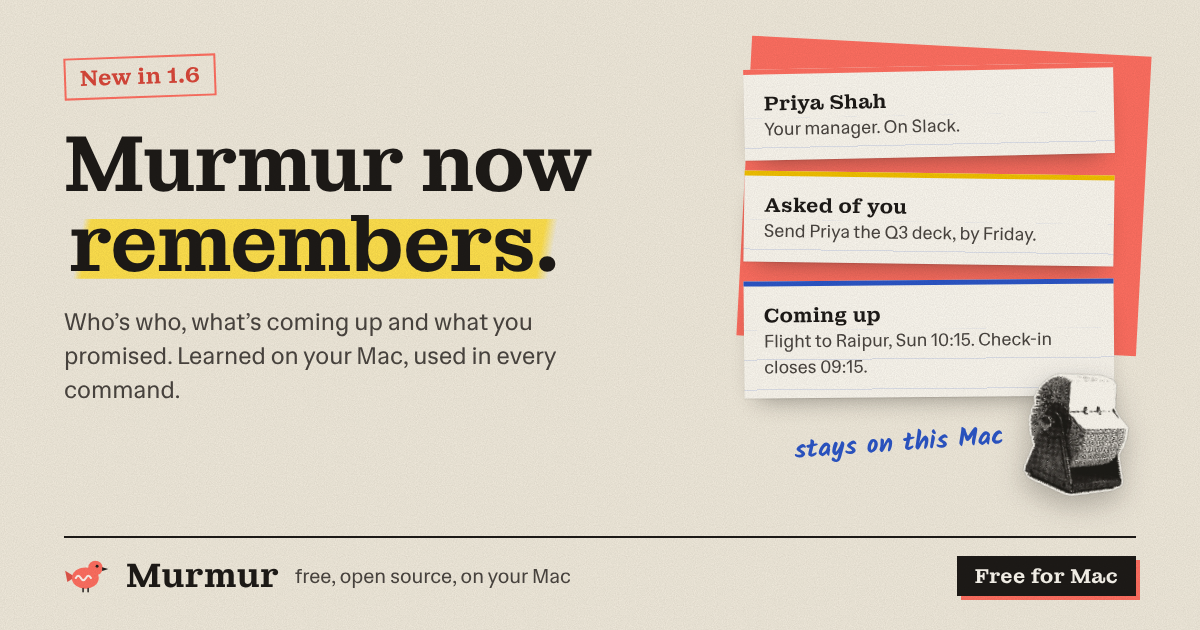
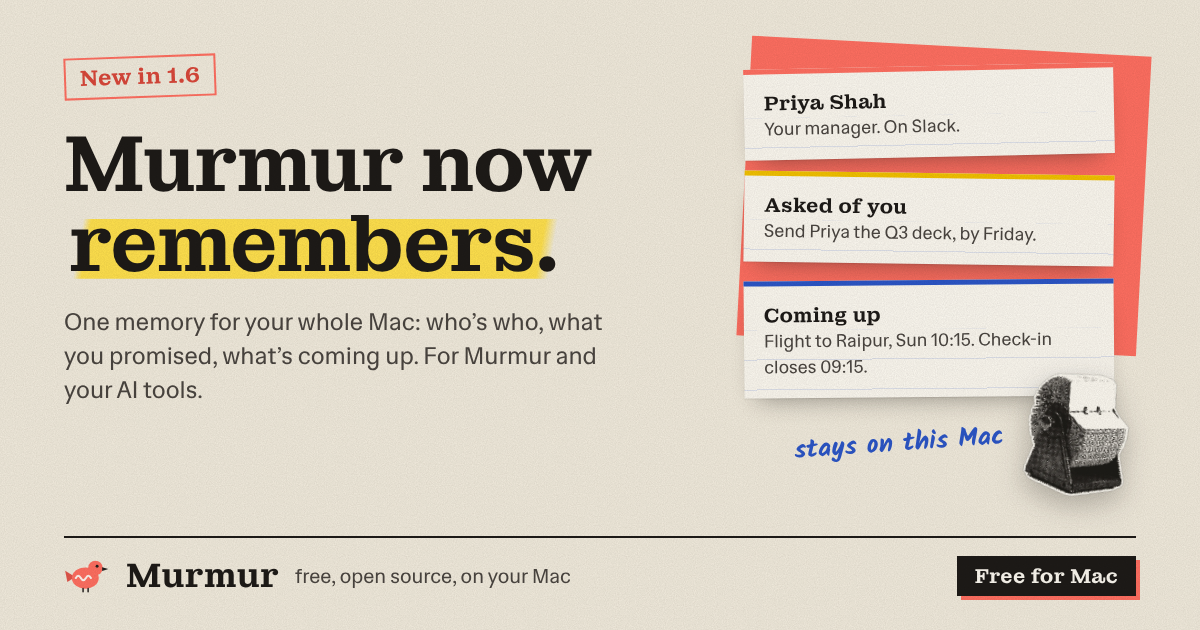
Memory as one memory for the whole Mac, for Murmur and your AI tools
The section now explains itself in order: how the memory is made (learns, keeps what's yours, stays current,
everything can use it), what you can just say with it (four examples with what Murmur does), your AI tools using
it over MCP (what they can ask, the one command, read-only, and a scene of Claude Code asking Murmur), and why
it's safe to have. Hero, what's new, a new question, the link preview and its description say the same.

Claude-Session: https://claude.ai/code/session_0112tp5ZwNLWvX6zhdq2sbnp

Changed region(s): [[0.0308, 0.4825, 0.4933, 0.6333]]

diff --git a/src/content.js b/src/content.js
@@ -17,21 +17,48 @@ export const modes = [
 ];
 
 export const whatsNew = [
-  ["Murmur remembers", "Who’s who, what’s coming up and what you promised, learned from your Contacts, Calendar, Reminders, Notes and Mail, and from what you work on. Every command uses it, and it all stays on your Mac."],
+  ["A memory for your whole Mac", "Murmur learns who’s who, what’s coming up and what you promised, from your apps and the windows you work in. Every command uses it, your AI tools can too, and it stays on your Mac."],
   ["Promises and plans", "“Can you send the deck by Friday?” in Slack, a flight you booked: they become open loops with a due date, and close themselves when Murmur sees they’re done."],
   ["Morning brief, evening wrap-up", "At 9:00, what’s due today and where you left off. At 18:30, what you did and what’s still open."],
+  ["Your AI tools remember too", "Claude Code, Claude Desktop, Cursor and other AI tools on your Mac can ask Murmur’s memory what you’re working on, read-only, with one command."],
   ["Your apps, connected", "Sign in to Linear, Notion, or Jira and Confluence on their own page. Then ask about your issues and docs, or update them, by voice."],
   ["A reader built in", "Memory runs on a model Murmur downloads and runs itself, with no Ollama to set up. It reads while you’re away, or a little at a time when the Mac is plugged in and quiet."],
 ];
 
-// The memory section: where it learns from, and what it does with it.
-export const memorySources = ["Contacts", "Calendar", "Reminders", "Notes", "Mail", "What you work on", "Linear", "Notion", "Jira"];
+// The memory section: one memory for the whole Mac, how it's made, what it answers, and the AI tools that use it.
+export const memorySources = ["Contacts", "Calendar", "Reminders", "Notes", "Mail", "The windows you work in", "Linear", "Notion", "Jira and Confluence"];
 
-export const memoryPowers = [
-  ["Who’s who", "“Text Priya I’m running late” knows which Priya, and where you talk to her. “Who is Arjun?” gets his role, his team and when you last met."],
-  ["What you owe, and what’s owed", "Requests in your chats and email, the things you said you’d do, the bookings in your inbox. Each one is an open loop until it’s done, with a nudge before it’s due."],
-  ["What you did", "A few lines for every hour you work, rolled up into days and months. “What did I do on Tuesday?” has an answer."],
-  ["What it forgets", "Facts fade unless they come up again, and newer ones replace older ones. Feeds, adverts and strangers’ posts are only seen, never kept as yours. Every line has an × to forget it."],
+// How the memory is made: a sequence, so it's numbered on the page.
+export const memorySteps = [
+  ["It learns", "From the apps you turn on, and, if you let it, from the windows you work in: the Slack thread, the email, the doc, the booking page. Nothing to type in."],
+  ["It keeps what’s yours", "Your conversations and your work become memories, promises and plans. Feeds, adverts and strangers’ posts are only seen, never kept as facts about you."],
+  ["It stays current", "A new fact replaces the old one (a new job, a new number). What never comes up again fades. A promise closes itself when Murmur sees it done."],
+  ["Everything can use it", "Every Murmur command, and any AI tool on your Mac that can connect to it: Claude Code, Claude Desktop, Cursor and others."],
+];
+
+// What you say, and what memory lets Murmur do with it. All made-up people.
+export const memoryExamples = [
+  ["Message Priya I’m running late.", "Goes to Priya Shah on Slack, because that’s where you two talk. Not to the other Priya in your Contacts."],
+  ["When’s my flight?", "Sunday at 10:15 from Bengaluru, Terminal 1. Check-in closes at 09:15. It read that from your booking, and reminds you the evening before."],
+  ["What did I promise this week?", "The Q3 deck for Priya by Friday, Arjun’s pull request, and a call back to the accountant. Each one from where you said it."],
+  ["What did I do yesterday?", "Three hours on the payments release in Xcode, a call with Arjun about the launch, and the new pricing page in Figma."],
+];
+
+// What other AI tools can ask (MemoryServer's tools, in plain words).
+export const memoryTools = [
+  ["Who and what", "people, their work and how to reach them, projects, facts and preferences, each with where it came from"],
+  ["Promises", "what you said you’d do and what you’re waiting on, soonest due first"],
+  ["What you did", "a summary of any hour, day, month or year"],
+  ["Where your time went", "apps and sites, between any two days"],
+  ["What you saw", "pages, documents, chats and email you had open"],
+  ["What’s coming up", "events, plans and things to do"],
+];
+
+export const memoryTrust = [
+  ["On your Mac", "The memory is one file on your Mac. Murmur’s own model reads and writes it. No account, no server."],
+  ["Never read", "Password managers, private windows and password fields, and any app or site you add to Never read."],
+  ["No pictures kept", "When a window has little text, Murmur looks at a small picture of it, then deletes the picture."],
+  ["Yours to edit", "Every line on the Memory page has an × to forget it. Forget a person, everything from your screen, or all of it."],
 ];
 
 export const dictation = [
@@ -109,6 +136,7 @@ export const questions = (macSize, windowsSize) => [
   ["Does Murmur listen all the time?", "No. Only while you hold the key, or after you double-tap it for hands-free, until you tap again. Esc cancels."],
   ["Does Murmur record my screen?", "No video, ever, and only if you turn on Remember what I work on. Then Murmur reads the text of the window you’re working in when it changes, and takes a small picture only when a window has little text. Pictures are deleted once they’re read. It never reads password managers, private windows or password fields, and you can add any app or site to Never read."],
   ["What does Murmur remember, and can I make it forget?", "People, organisations, projects, what’s coming up, and what you promised or are owed, each with where it came from. Things fade unless they come up again. Forget one line, a person, everything from your screen, or all of it, from the Memory page. Memory is on the Mac for now."],
+  ["Can my other AI tools use Murmur’s memory?", "Yes, any that connect to tools over MCP: Claude Code, Claude Desktop, Cursor and others. On the Memory page, Use your memory in Claude Code copies the one command that adds it. They can read it, never change it, and what they read goes to the model they use."],
   ["Does it change what I say?", "Not unless you ask it to. By default your words go in exactly as heard; Murmur only fits the spacing, the first letter and the final full stop to the sentence around your cursor. AI cleanup, which takes out the ums and applies your corrections, is off until you turn it on. If the model changes more than that, your words go in as heard."],
   ["How does it tell a command from dictation?", "Typing is the default. Clear commands like “open Slack” or “PDF kholo” run at once. To decide yourself, hold ⇧ with fn to only type, or ⌃ with fn to make it a command."],
   ["Can I stop a command halfway?", "Yes. Press Esc, or choose Stop Command in the menu bar, and it stops after the step it’s on. If it had a task list, say “continue” later to pick it up."],

diff --git a/src/App.jsx b/src/App.jsx
@@ -1,13 +1,13 @@
 import { useEffect, useRef, useState } from "react";
 import Flock from "./Flock";
 import { Bird, Pill } from "./Bird";
-import { CleanupScene, DictateScene, MemoryScene, ReadScene, SearchScene, Shortcuts, TaskScene } from "./Scenes";
+import { AgentMemoryScene, CleanupScene, DictateScene, MemoryScene, ReadScene, SearchScene, Shortcuts, TaskScene } from "./Scenes";
 import { Cut, Hi, Mark, Note } from "./Collage";
 import { downloadUrl, onWindows, releasesUrl, useRelease, useWindowsRelease } from "./release";
 import { recentReleases } from "./releases";
 import { useScrollMotion } from "./motion";
 import {
-  chatApps, dictation, heroPhrases, jobs, learns, links, memoryPowers, memorySources, models, modes, parity, questions,
+  chatApps, dictation, heroPhrases, jobs, learns, links, memoryExamples, memorySources, memorySteps, memoryTools, memoryTrust, models, modes, parity, questions,
   spoken, steps, whatsNew,
 } from "./content";
 
@@ -177,37 +177,65 @@ function MobileMenu() {
   );
 }
 
-const memoryAsks = ["Who is Arjun?", "What did I promise this week?", "When’s my flight?", "What did I work on yesterday?"];
-
-// Memory, the 1.6 headline: what goes in, what it keeps, and what you can ask it.
+// Memory, the 1.6 headline: one memory for the whole Mac. How it's made, what it answers, the AI tools that use it,
+// and why it's safe to have.
 function Memory() {
   return (
     <section className="block memory" id="memory" aria-labelledby="memory-title">
-      <Head id="memory-title" title="Murmur now" hi="remembers" lede="Who’s who, what’s coming up and what you said you’d do. Murmur learns it from your apps and from what you work on, keeps what’s about you, and uses it in every command. On your Mac, nowhere else." note="new in 1.6" />
+      <Head id="memory-title" title="One memory for" hi="your whole Mac"
+        lede="Murmur now keeps a private memory of your working life: who people are, what you’re working on, what you promised and what’s coming up. It builds it from your apps and the windows you work in, uses it in every command, and lets your other AI tools use it too."
+        note="new in 1.6" />
+
+      <ol className="flow memory-steps">
+        {memorySteps.map(([title, text], i) => (
+          <li key={title} className="flow-step scrap" data-reveal data-delay={i * 110}>
+            <span className="flow-n" aria-hidden="true">{i + 1}</span>
+            <h3>{title}</h3>
+            <p>{text}</p>
+            {i === 0 && <ul className="memory-chips">{memorySources.map((s) => <li key={s}>{s}</li>)}</ul>}
+            {i < memorySteps.length - 1 && <Mark kind="arrow" className="flow-arrow" />}
+          </li>
+        ))}
+      </ol>
+
       <div className="memory-grid">
         <div className="memory-stage" data-reveal>
           <div className="stage-paper taped"><MemoryScene /></div>
           <Cut name="cards" className="memory-cut" depth="0.4" />
-          <Note className="memory-note">stays on this Mac</Note>
+          <Note className="memory-note">what you worked on, kept as cards</Note>
         </div>
-        <div className="memory-side">
-          <div className="memory-sources" data-reveal>
-            <p className="memory-from">It learns from</p>
-            <ul>{memorySources.map((s) => <li key={s}>{s}</li>)}</ul>
-          </div>
-          <ul className="memory-powers">
-            {memoryPowers.map(([title, text], i) => (
-              <li key={title} className="card" data-reveal data-delay={i * 80}><h3>{title}</h3><p>{text}</p></li>
+        <div className="memory-examples">
+          <h3 className="memory-sub">So you can just say</h3>
+          <dl>
+            {memoryExamples.map(([said, does], i) => (
+              <div key={said} data-reveal data-delay={i * 80}><dt><q className="voice">{said}</q></dt><dd>{does}</dd></div>
             ))}
-          </ul>
+          </dl>
         </div>
       </div>
-      <div className="memory-ask scrap" data-reveal>
-        <p className="memory-ask-head">Ask it anything about your own world</p>
-        <ul>{memoryAsks.map((q) => <li key={q}><q className="voice">{q}</q></li>)}</ul>
-        <p className="note">Claude Code, Claude Desktop and Cursor can ask Murmur what it knows too, read-only, on this Mac.</p>
-        <Mark kind="underline" className="memory-ask-mark" />
+
+      <div className="memory-agents">
+        <div className="memory-agents-copy" data-reveal>
+          <h3 className="memory-sub">Your AI tools get it too</h3>
+          <p>Claude Code, Claude Desktop, Cursor and any other AI tool on your Mac that connects to tools over MCP can ask Murmur’s memory before they answer. So your coding agent knows what you shipped this week, who owns the payments code, and what you promised to fix.</p>
+          <dl className="memory-tools">
+            {memoryTools.map(([title, text]) => <div key={title}><dt>{title}</dt><dd>{text}</dd></div>)}
+          </dl>
+          <p className="memory-how">Add it with one command, copied from <b>Memory → Use your memory in Claude Code</b>:</p>
+          <code className="memory-command">claude mcp add --scope user murmur -- …/murmur-memory mcp</code>
+          <p className="note">Read-only: they can ask, never change. What a tool reads goes to the model that tool uses.</p>
+        </div>
+        <div className="memory-agents-scene" data-reveal data-delay="100">
+          <div className="stage-paper taped"><AgentMemoryScene /></div>
+          <Note className="memory-agents-note">Claude Code, asking Murmur</Note>
+        </div>
       </div>
+
+      <dl className="details memory-trust">
+        {memoryTrust.map(([title, text], i) => (
+          <div key={title} className="sticky" data-reveal data-delay={i * 80}><dt>{title}</dt><dd>{text}</dd></div>
+        ))}
+      </dl>
     </section>
   );
 }
@@ -264,7 +292,7 @@ export default function App() {
             <div className="hero-copy">
               <a className="stamp" href="#memory">New in {latest[0]}: Murmur remembers</a>
               <h1>Hold a key and <Hi>say it.</Hi></h1>
-              <p className="hero-lede">Murmur types what you say in any app, answers questions about your screen, finds your files and carries out whole jobs across your apps and the web. Now it remembers who’s who and what you promised, too. In English, Hinglish or 25 more languages. Free, and its models run on your own computer.</p>
+              <p className="hero-lede">Murmur types what you say in any app, answers questions about your screen, finds your files and carries out whole jobs across your apps and the web. Now it remembers your work, too: who’s who, what you promised and what’s coming up, for Murmur and for your other AI tools. In English, Hinglish or 25 more languages. Free, and its models run on your own computer.</p>
               <div className="hero-actions">{isWindows ? <>{win}{mac}</> : <>{mac}{win}</>}</div>
               <p className="hero-meta">Free and open source. Mac with Apple silicon on macOS 14 or later, or Windows 10 and 11.</p>
             </div>

diff --git a/src/styles.css b/src/styles.css
@@ -666,25 +666,44 @@ kbd + kbd { margin-left: 3px; }
   .footer-say p { max-width: none; }
 }
 
-/* Memory (1.6): what you worked on in, index cards out, and the next command using them. */
-.memory-grid { display: grid; grid-template-columns: 1.15fr 1fr; gap: clamp(32px, 5vw, 72px); align-items: start; }
+/* Memory (1.6): how it's made (numbered), the scene and what you can say, the AI tools that use it, and trust. */
+.memory-steps { margin-bottom: clamp(70px, 8vw, 110px); }
+.memory-chips { display: flex; flex-wrap: wrap; gap: 6px; margin-top: 14px; }
+.memory-chips li { padding: 1px 9px; border: 1.5px solid var(--ink); border-radius: 999px; background: #fff; font: 600 12.5px/1.6 var(--slab); }
+.memory-chips li:nth-child(6) { background: var(--yellow); }
+.memory-grid { display: grid; grid-template-columns: 1.1fr 1fr; gap: clamp(32px, 5vw, 76px); align-items: center; }
 .memory-stage { position: relative; --rest-tilt: -1deg; }
-.memory-cut { right: -46px; bottom: -120px; width: 180px; transform: rotate(-7deg); z-index: 2; }
+.memory-cut { right: -46px; bottom: -120px; width: 170px; transform: rotate(-7deg); z-index: 2; }
 .memory-note { left: 6px; bottom: -48px; }
-.memory-from { color: var(--ink-3); font-size: 15px; }
-.memory-sources ul { display: flex; flex-wrap: wrap; gap: 8px; margin-top: 10px; }
-.memory-sources li { padding: 3px 11px; border: 1.5px solid var(--ink); border-radius: 999px; background: var(--sheet); font: 600 14.5px/1.5 var(--slab); }
-.memory-sources li:nth-child(6) { background: var(--yellow); }
-.memory-powers { display: grid; grid-template-columns: 1fr 1fr; gap: 16px; margin-top: 26px; }
-.memory-powers .card { padding: 20px 20px 22px; }
-.memory-powers .card:nth-child(odd) { --rest-tilt: -0.6deg; }
-.memory-powers .card:nth-child(even) { --rest-tilt: 0.5deg; }
-.memory-powers p { margin-top: 8px; color: var(--ink-2); font-size: 15.5px; line-height: 1.55; }
-.memory-ask { margin-top: clamp(70px, 8vw, 110px); padding: 30px 32px 38px; --rest-tilt: 0.4deg; }
-.memory-ask-head { font: 600 22px/1.3 var(--slab); }
-.memory-ask ul { display: flex; flex-wrap: wrap; gap: 14px 34px; margin-top: 16px; }
-.memory-ask .voice { font-size: clamp(22px, 2.4vw, 30px); }
-.memory-ask-mark { left: 32px; top: 58px; width: 280px; height: 14px; }
+.memory-sub { margin-bottom: 18px; font: 600 clamp(26px, 2.6vw, 36px)/1.15 var(--slab); }
+.memory-examples dl { display: grid; gap: 22px; }
+.memory-examples dt .voice { font-size: clamp(21px, 2vw, 26px); }
+.memory-examples dd { margin-top: 4px; color: var(--ink-2); font-size: 16px; line-height: 1.55; }
+.memory-agents { display: grid; grid-template-columns: 1fr 1.05fr; gap: clamp(32px, 5vw, 76px); align-items: center; margin-top: clamp(110px, 12vw, 160px); }
+.memory-agents-copy > p:first-of-type { max-width: 34em; color: var(--ink-2); }
+.memory-tools { display: grid; grid-template-columns: 1fr 1fr; gap: 12px 26px; margin-top: 22px; }
+.memory-tools dt { font: 600 16px/1.3 var(--slab); }
+.memory-tools dd { color: var(--ink-3); font-size: 14.5px; line-height: 1.45; }
+.memory-how { margin-top: 24px; font-size: 16px; }
+.memory-command { display: block; margin-top: 8px; padding: 10px 14px; overflow-x: auto; border: 1.5px solid var(--ink); border-radius: 8px; background: var(--ink); color: var(--sheet); font: 14px/1.5 ui-monospace, "SF Mono", Menlo, monospace; white-space: nowrap; }
+.memory-agents-scene { position: relative; --rest-tilt: 1deg; }
+.memory-agents-note { right: 10px; bottom: -44px; }
+.memory-trust { margin-top: clamp(90px, 10vw, 130px); grid-template-columns: repeat(4, 1fr); }
+
+.term .win-body { display: grid; gap: 12px; min-height: 330px; background: #1d1a17; color: #e9e3d6; font: 14px/1.5 ui-monospace, "SF Mono", Menlo, monospace; }
+.term .win-bar { background: #2a2622; border-bottom-color: #2a2622; }
+.term .win-title { color: #b8b0a3; }
+.term-you span { color: var(--coral); }
+.term-call { padding-left: 14px; border-left: 2px solid #4a4540; opacity: 0.15; transition: opacity 0.45s var(--ease); }
+.term-call.shown { opacity: 1; }
+.term-tool { color: var(--yellow); }
+.term-tool b { font: 600 14px ui-monospace, "SF Mono", Menlo, monospace; }
+.term-tool small { color: #b8b0a3; font-size: 13px; }
+.term-result { color: #cfc7b8; }
+.term-answer { padding-top: 6px; border-top: 1px dashed #4a4540; opacity: 0.15; transition: opacity 0.5s var(--ease); }
+.term-answer.shown { opacity: 1; }
+.term-answer b { font: 600 15px ui-monospace, "SF Mono", Menlo, monospace; color: #fff; }
+.term-dim { color: #b8b0a3; }
 
 .mem { display: grid; grid-template-columns: 1fr 1fr; gap: 14px; }
 .mem-in, .mem-out { overflow: hidden; border: 1.5px solid var(--ink); border-radius: 10px; background: #fff; padding: 14px 14px 16px; }
@@ -706,16 +725,18 @@ kbd + kbd { margin-left: 3px; }
 .faded { opacity: 0.35; transition: opacity 0.4s; }
 
 @media (max-width: 1020px) {
-  .memory-grid { grid-template-columns: 1fr; }
-  .memory-side { margin-top: 64px; }
-  .memory-cut { width: 150px; bottom: -70px; right: -8px; }
+  .memory-grid, .memory-agents { grid-template-columns: 1fr; }
+  .memory-examples { margin-top: 70px; }
+  .memory-agents-scene { margin-top: 20px; }
+  .memory-trust { grid-template-columns: 1fr 1fr; }
+  .memory-cut { width: 140px; bottom: -70px; right: -8px; }
 }
 @media (max-width: 640px) {
   .mem { grid-template-columns: 1fr; }
-  .memory-powers { grid-template-columns: 1fr; }
   .memory-cut { display: none; }
-  .memory-note { bottom: -40px; }
-  .memory-ask { padding: 24px 20px 30px; }
-  .memory-ask ul { flex-direction: column; gap: 8px; }
-  .memory-ask-mark { display: none; }
+  .memory-note { bottom: -40px; white-space: normal; }
+  .memory-tools, .memory-trust { grid-template-columns: 1fr; }
+  .term .win-body { font-size: 13px; min-height: 0; }
 }
+.memory-grid > *, .memory-agents > *, .memory-steps > * { min-width: 0; }
+@media (max-width: 640px) { .memory-command { white-space: normal; overflow-wrap: anywhere; } }

diff --git a/src/Scenes.jsx b/src/Scenes.jsx
@@ -307,3 +307,31 @@ export function MemoryScene() {
     </figure>
   );
 }
+
+// Another AI tool using Murmur's memory: Claude Code asks it what you did and what you owe, then writes the notes.
+export function AgentMemoryScene() {
+  // 0 asked · 1 first lookup · 2 second lookup · 3 answer
+  const [ref, step] = useTimeline([1600, 1800, 1800, 4200]);
+  return (
+    <figure className="scene" ref={ref}>
+      <Window title="Terminal — claude" className="term">
+        <p className="term-you"><span>&gt;</span> write this week’s release notes from what I shipped</p>
+        <div className={`term-call${step >= 1 ? " shown" : ""}`}>
+          <p className="term-tool">murmur · <b>What you did</b> <small>this week</small></p>
+          <p className="term-result">Payments release in Xcode, Mon to Thu. Fixed the refund bug Arjun reported. New pricing page in Figma.</p>
+        </div>
+        <div className={`term-call${step >= 2 ? " shown" : ""}`}>
+          <p className="term-tool">murmur · <b>Promises</b></p>
+          <p className="term-result">Asked of you: send Priya the Q3 deck, by Friday.</p>
+        </div>
+        <div className={`term-answer${step >= 3 ? " shown" : ""}`}>
+          <p><b>This week</b></p>
+          <p>• Payments: the new release, and refunds that no longer fail twice.</p>
+          <p>• A new pricing page.</p>
+          <p className="term-dim">Still to do: the Q3 deck for Priya, due Friday.</p>
+        </div>
+      </Window>
+      <figcaption className="sr-only">In Claude Code, “write this week’s release notes from what I shipped” makes Claude ask Murmur’s memory what you did this week and what you promised, then write the notes with the Q3 deck still to do.</figcaption>
+    </figure>
+  );
+}

diff --git a/index.html b/index.html
@@ -9,7 +9,7 @@
     <meta property="og:type" content="website" />
     <meta property="og:site_name" content="Murmur" />
     <meta property="og:title" content="Murmur: hold a key and say it" />
-    <meta property="og:description" content="A free voice assistant that types for you, reads for you and does whole jobs across your apps and the web. New in 1.6: it remembers who’s who, what’s coming up and what you promised, on your Mac." />
+    <meta property="og:description" content="A free voice assistant that types for you, reads for you and does whole jobs across your apps and the web. New in 1.6: one memory for your whole Mac, used by Murmur and your other AI tools, and kept on your Mac." />
     <meta property="og:url" content="%SITE_URL%/" />
     <meta property="og:image" content="%SITE_URL%/og.png" />
     <meta property="og:image:width" content="1200" />
